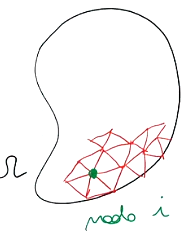
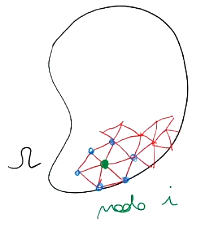
Piccola correzione file 18, aggiunta immagine file 19

diff --git a/19.tex b/19.tex
@@ -8,5 +8,45 @@ $$
 \vec{D} = \varepsilon\vec{E} &\text{in } \Omega\text{ materiale omogeneo ed isotropo}
 \end{cases}
 $$
-Il modello si trasforma in questo caso in 8:19
+Il modello si trasforma in questo caso nel problema dei valori al contorno
+per l'equazione di Laplace con condizioni di Dirichlet sugli elettrodi
+e condizione alla Neumann su una frontiera abbastanza lontana da approssimare
+l'infinito.
+$$
+\begin{cases}
+\nabla^2 u = 0 & \text{in } \Omega\\
+\left.u\right|_{l_1} = V_1\\
+\left.u\right|_{l_2} = 0\\
+\left.\frac{\partial u}{\partial n}\right|_{\partial\Omega e} = 0
+\end{cases}
+$$
+Le funzioni ``tenda'' solitamente utilizzate nei metodi agli elementi finiti
+sono lineari a tratti, ad esempio la funzione $w_i$ vale $1$ nel nodo
+in cui è valutata e decresce linearmente a $0$ nei nodi adiacenti.
+Il grado del polinomio della funzione test può essere incrementato ma
+si incrementano anche i problemi analitici dovuti al rispetto
+delle condizioni al contorno e di raccordo, per questo motivo sono solitamente
+utilizzati polinomi di grado 1.
+\begin{figure}[H]
+\centering
+\includegraphics[width=0.7\linewidth]{funzione_tenda}
+\caption{Espressione analitica funzione tenda di grado 1}
+\end{figure}
+Per ricostruire la funzione si esegue una combinazione lineare delle
+funzioni tenda nei vari punti.
+
+Per domini bidimensionali è ancora possibile eseguire una discretizzazione
+in elementi triangolari, con funzioni lineari in due variabili,
+la matrice dei coefficienti risultante è simmetrica e semidefinita
+positiva, inoltre è una matrice sparsa, ossia i coefficienti pari a zero sono 
+molto maggiori rispetto a quelli diversi da zero.
+\begin{figure}[H]
+\centering
+\includegraphics[width=0.7\linewidth]{tenda_bidimensionale}
+\caption{Espressione funzione tenda bidimensionale}
+\end{figure}
+
+
+
+
 

diff --git a/18_introduzione_FEM.tex b/18_introduzione_FEM.tex
@@ -100,7 +100,8 @@ Si definisce su ogni nodo $i$ della griglia una funzione test $w_i$
 $$
 w_i(\underline{x}) = \begin{cases}
 1 & \text{se } \underline{x} = \underline{x}_i\\
-0 & \text{se } \underline{x} \neq \underline{x}_i
+0 & \text{se } \underline{x} \neq \underline{x}_i\\
+&\text{lineare intorno al nodo }\underline{x}_i
 \end{cases}
 $$
 Vengono definite funzioni ``a tenda'' data la loro somiglianza ad una tenda canadese.
